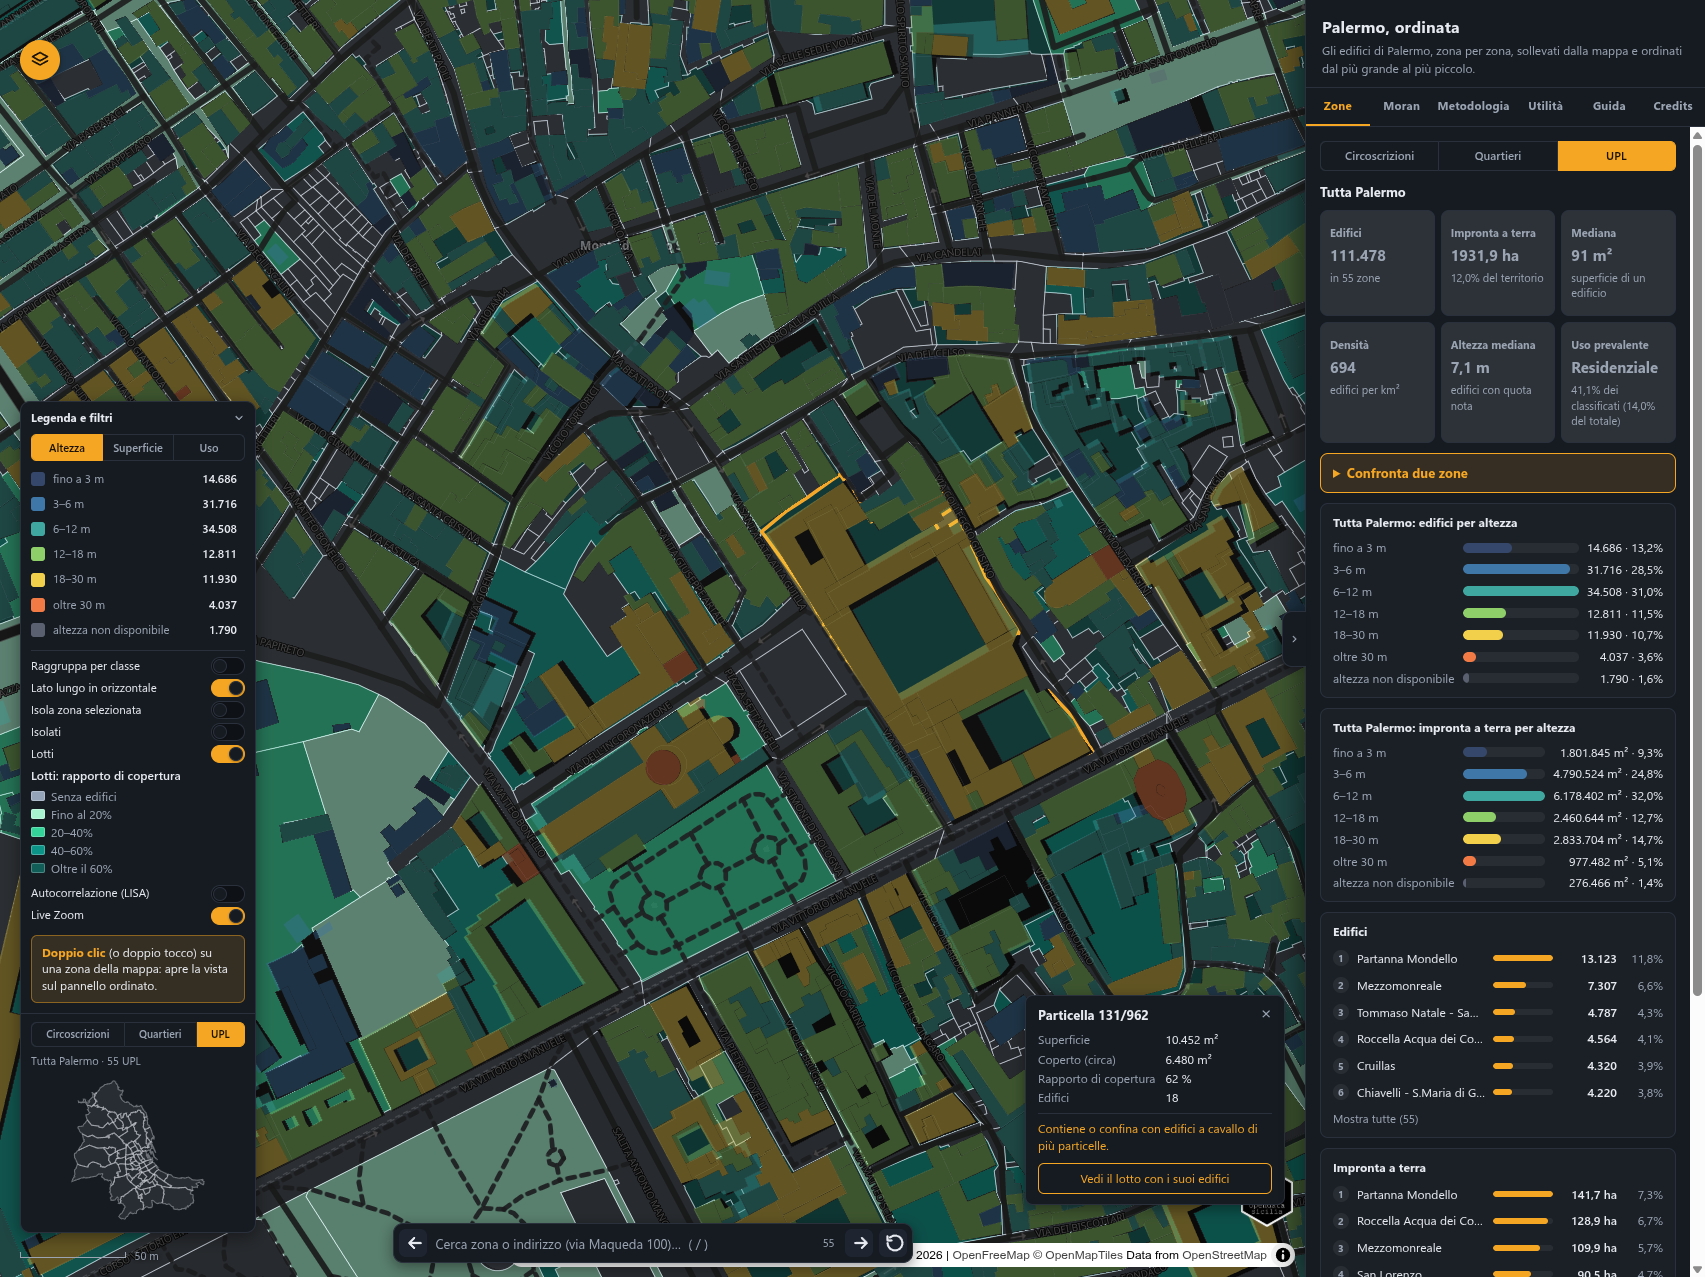
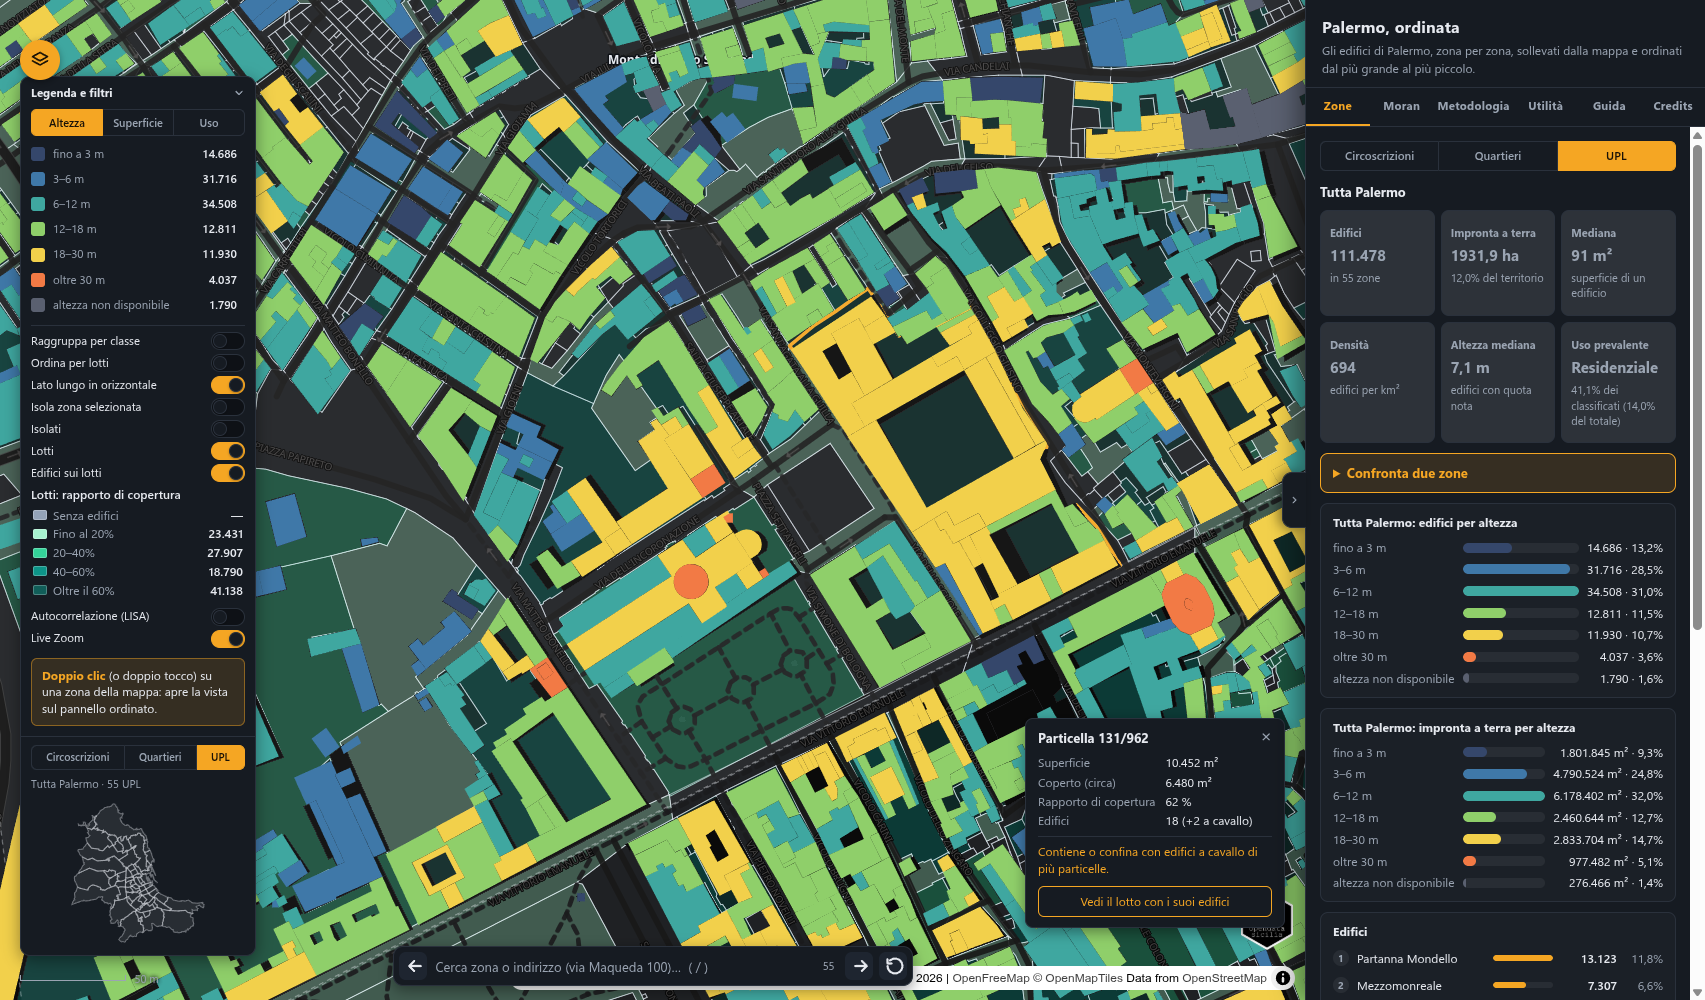
fix(lotti): il reset azzera anche i lotti; Guida e screenshot aggiornati
Reset: filtro dei lotti, «Edifici sui lotti», scheda e «Ordina per lotti» tornano allo stato iniziale.
Guida: sezione I lotti catastali riscritta (filtro, Ordina per lotti, reset, link), variabili dei lotti
nel Moran; screenshot nuovi (lotto-mappa, lotti-filtro, moran-lotti).

diff --git a/index.html b/index.html
@@ -347,7 +347,7 @@
         <li><b>Lato lungo in orizzontale</b>: ruota gli edifici per allinearli.</li>
         <li><b>Isola zona selezionata</b>: mostra solo la zona scelta.</li>
         <li><b>Isolati</b>: disegna sulla mappa il contorno degli isolati; clic su uno per la sua scheda, doppio clic per vederlo in ordine. Dettagli nella sezione «Gli isolati» qui sotto.</li>
-        <li><b>Lotti</b>: colora le particelle catastali per rapporto di copertura; clic per la scheda, doppio clic per vedere il lotto con i suoi edifici. Dettagli nella sezione «I lotti catastali» qui sotto.</li>
+        <li><b>Lotti</b>: disegna le particelle catastali colorate per rapporto di copertura; la loro legenda è un filtro (clic su una classe). <b>Ordina per lotti</b> dispone i lotti nella vista Ordinata. Dettagli nella sezione «I lotti catastali» qui sotto.</li>
         <li><b>Live Zoom</b>: dopo un filtro la vista si adatta agli edifici rimasti.</li>
       </ul>
       <h2>6. Gli isolati</h2>
@@ -385,7 +385,7 @@
       <p>Serve a capire se i valori <b>si raggruppano</b>: le UPL con edifici alti stanno vicine tra loro più di quanto farebbe il caso? Il tab <b>Moran</b> risponde con un numero per tutta la città (il <b>Moran's I</b>) e con un colore per ogni UPL (il <b>LISA</b>).</p>
       <figure><button type="button" class="gal" data-gal="img/guida/moran-mappa.png" data-cap="Cluster LISA sulla mappa: in rosso gli hotspot, in blu i coldspot" title="Ingrandisci: Cluster LISA sulla mappa: in rosso gli hotspot, in blu i coldspot"><img src="img/guida/moran-mappa.png" alt="La mappa di Palermo con le UPL colorate in base al cluster LISA" loading="lazy"></button><figcaption>Cluster LISA sulla mappa: in rosso gli hotspot, in blu i coldspot</figcaption></figure>
       <ul class="guida">
-        <li>Apri il tab <b>Moran</b>, scegli la variabile (<b>Altezza media</b>, <b>Copertura</b> o <b>Densità</b>) e premi «<b>Mostra sulla mappa</b>». Lo stesso si fa con l'interruttore «Autocorrelazione (LISA)» nella legenda. Gli edifici vengono sostituiti dai cluster; per tornare indietro premi «Nascondi dalla mappa».</li>
+        <li>Apri il tab <b>Moran</b>, scegli la variabile (<b>Altezza media</b>, <b>Copertura</b>, <b>Densità</b> e, dai lotti catastali, <b>Lotto mediano</b>, <b>Frammentazione</b>, <b>A cavallo</b>, <b>Non costruiti</b>) e premi «<b>Mostra sulla mappa</b>». Lo stesso si fa con l'interruttore «Autocorrelazione (LISA)» nella legenda. Gli edifici vengono sostituiti dai cluster; per tornare indietro premi «Nascondi dalla mappa».</li>
         <li><b>Rosso, hotspot (alto-alto):</b> UPL con valore alto circondata da UPL con valori alti. <b>Blu, coldspot (basso-basso):</b> il contrario.</li>
         <li><b>Arancio e azzurro, outlier:</b> UPL alta tra basse (arancio) o bassa tra alte (azzurro). Sono le eccezioni rispetto al contesto.</li>
         <li><b>Grigio:</b> nessun raggruppamento significativo (p locale sopra 0,05).</li>
@@ -398,27 +398,36 @@
       <figure><button type="button" class="gal" data-gal="img/guida/moran-cluster.png" data-cap="Elenco dei cluster: un clic su una UPL la inquadra sulla mappa" title="Ingrandisci: Elenco dei cluster: un clic su una UPL la inquadra sulla mappa"><img src="img/guida/moran-cluster.png" alt="L'elenco delle UPL per tipo di cluster" loading="lazy"></button><figcaption>Elenco dei cluster: un clic su una UPL la inquadra sulla mappa</figcaption></figure>
       <ul class="guida">
         <li>Sotto il diagramma le UPL sono elencate per tipo di cluster, con il valore: un clic sul nome inquadra la UPL sulla mappa.</li>
-        <li>Con il livello LISA acceso il passaggio del mouse mostra la scheda della UPL invece di quella dell'edificio; il link condiviso conserva la variabile scelta (<code>&amp;m=alt</code>, <code>cop</code> o <code>den</code>). Dettagli e limiti del metodo sono nella Metodologia, punto 8.</li>
+        <li>Con il livello LISA acceso il passaggio del mouse mostra la scheda della UPL invece di quella dell'edificio; il link condiviso conserva la variabile scelta (<code>&amp;m=alt</code>, <code>cop</code>, <code>den</code>, <code>lmed</code>, <code>frag</code>, <code>cavq</code> o <code>vuoq</code>). Dettagli e limiti del metodo sono nella Metodologia, punto 8.</li>
+      </ul>
+      <figure><button type="button" class="gal" data-gal="img/guida/moran-lotti.png" data-cap="Le variabili dei lotti nell'autocorrelazione: la frammentazione fondiaria ha il suo hotspot nel centro storico" title="Ingrandisci: Le variabili dei lotti nell'autocorrelazione: la frammentazione fondiaria ha il suo hotspot nel centro storico"><img src="img/guida/moran-lotti.png" alt="Il tab Moran con la variabile Frammentazione: hotspot rossi nel centro storico" loading="lazy"></button><figcaption>Le variabili dei lotti nell'autocorrelazione: la frammentazione fondiaria ha il suo hotspot nel centro storico</figcaption></figure>
+      <ul class="guida">
+        <li><b>Le quattro variabili dei lotti</b> distinguono il tessuto storico, a lotti piccoli e frammentati, dalle lottizzazioni: <b>Frammentazione</b> (particelle per ettaro) ha il suo hotspot nel centro storico, <b>Lotto mediano</b> (m²) lo ha dove i lotti sono più grandi, <b>A cavallo</b> è la quota di edifici che toccano più particelle, <b>Non costruiti</b> la quota di particelle senza edifici. Le particelle stradali sono escluse.</li>
       </ul>
       <h2>10. I lotti catastali</h2>
-      <figure><button type="button" class="gal" data-gal="img/guida/lotto-mappa.png" data-cap="Lotti accesi: particelle colorate per rapporto di copertura e scheda della particella scelta" title="Ingrandisci: Lotti accesi: particelle colorate per rapporto di copertura e scheda della particella scelta"><img src="img/guida/lotto-mappa.png" alt="La mappa con le particelle colorate per rapporto di copertura e la scheda di una particella" loading="lazy"></button><figcaption>Lotti accesi: particelle colorate per rapporto di copertura e scheda della particella scelta</figcaption></figure>
+      <figure><button type="button" class="gal" data-gal="img/guida/lotto-mappa.png" data-cap="Lotti accesi: particelle colorate per rapporto di copertura, edifici colorati come al solito e scheda della particella scelta" title="Ingrandisci: Lotti accesi: particelle colorate per rapporto di copertura, edifici colorati come al solito e scheda della particella scelta"><img src="img/guida/lotto-mappa.png" alt="La mappa con le particelle colorate per rapporto di copertura, gli edifici colorati per altezza e la scheda di una particella" loading="lazy"></button><figcaption>Lotti accesi: particelle colorate per rapporto di copertura, edifici colorati come al solito e scheda della particella scelta</figcaption></figure>
       <ul class="guida">
-        <li>Accendi <b>Lotti</b> nella legenda (solo vista Mappa; si spegne se accendi Isolati o LISA). Le particelle compaiono da zoom 12 (trasparenti) e gli edifici restano sopra, pieni, così si vede cosa sta dentro ogni lotto. L'interruttore <b>Edifici sui lotti</b> li spegne per vedere solo le particelle (<code>&amp;e=0</code> nel link).</li>
-        <li>Il colore dice <b>quanta parte del lotto è costruita</b>: grigio = nessun edificio, poi dal verde chiaro al verde scuro fino a oltre il 60%.</li>
-        <li><b>Passa il mouse</b> su un lotto per evidenziarlo; <b>clicca</b> per la scheda: superficie, coperto, rapporto di copertura, numero di edifici e avvisi (lotto libero, edifici a cavallo, particella stradale).</li>
-        <li><b>La legenda dei lotti è un filtro</b>, indipendente dal colore degli edifici: <b>clic su una classe</b> per vedere solo i lotti di quella classe e gli edifici che ci stanno dentro, che restano colorati per altezza, superficie o uso. Le statistiche e le classifiche del pannello si ricalcolano sui soli edifici rimasti. Secondo clic per rimettere tutto; <b>Maiusc+clic</b> accende o spegne una classe senza isolarla. Accanto a ogni classe c'è il numero di edifici; <b>Senza edifici</b> isola i lotti non costruiti (nessun edificio da contare, quindi il pannello resta vuoto). Il link condiviso conserva il filtro (<code>&amp;y=…</code>, le classi spente).</li>
+        <li>Accendi <b>Lotti</b> nella legenda (solo vista Mappa; si spegne se accendi Isolati o LISA). Le particelle compaiono da zoom 12, trasparenti, e <b>gli edifici restano sopra</b> con i loro colori: si vede cosa sta dentro ogni lotto. L'interruttore <b>Edifici sui lotti</b> li spegne per vedere solo le particelle (<code>&amp;e=0</code> nel link).</li>
+        <li>Il colore del lotto dice <b>quanta parte è costruita</b>: grigio = nessun edificio, poi dal verde chiaro al verde scuro fino a oltre il 60%.</li>
+        <li><b>Passa il mouse</b> su un lotto per evidenziarlo; <b>clicca</b> per la scheda: superficie, coperto, rapporto di copertura, numero di edifici (con «+n a cavallo» se ce ne sono) e avvisi (lotto libero, edifici a cavallo, particella stradale).</li>
+      </ul>
+      <figure><button type="button" class="gal" data-gal="img/guida/lotti-filtro.png" data-cap="La legenda dei lotti come filtro: solo i lotti 40–60% e gli edifici che ci stanno dentro, ancora colorati per altezza" title="Ingrandisci: La legenda dei lotti come filtro: solo i lotti 40–60% e gli edifici che ci stanno dentro, ancora colorati per altezza"><img src="img/guida/lotti-filtro.png" alt="La mappa con i soli lotti della classe 40–60% e i loro edifici colorati per altezza, con la legenda dei lotti e i conteggi" loading="lazy"></button><figcaption>La legenda dei lotti come filtro: solo i lotti 40–60% e gli edifici che ci stanno dentro, ancora colorati per altezza</figcaption></figure>
+      <ul class="guida">
+        <li><b>La legenda dei lotti è un filtro</b>, indipendente dal colore degli edifici. <b>Clic su una classe</b>: restano solo i lotti di quella classe e gli edifici che ci stanno dentro, ancora colorati per altezza, superficie o uso. Layer, edifici e pannello si aggiornano insieme: statistiche, classifiche e barre contano solo gli edifici rimasti. <b>Secondo clic</b> per rimettere tutto; <b>Maiusc+clic</b> accende o spegne una classe senza isolarla.</li>
+        <li>Accanto a ogni classe c'è il <b>numero di edifici</b>. <b>Senza edifici</b> isola i lotti non costruiti (nessun edificio da contare, quindi il pannello resta vuoto).</li>
+        <li>Il link condiviso conserva il filtro (<code>&amp;y=…</code>, le classi spente) e il livello acceso (<code>&amp;q=1</code>).</li>
+        <li>Il pulsante <b>Azzera</b> (la freccia circolare accanto alla ricerca) rimette tutto: filtro dei lotti, «Edifici sui lotti», scheda aperta e «Ordina per lotti».</li>
       </ul>
       <figure><button type="button" class="gal" data-gal="img/guida/lotto-ordinata.png" data-cap="Doppio clic su un lotto: il contorno della particella con i suoi edifici nelle posizioni reali" title="Ingrandisci: Doppio clic su un lotto: il contorno della particella con i suoi edifici nelle posizioni reali"><img src="img/guida/lotto-ordinata.png" alt="La vista Ordinata del singolo lotto, con il contorno della particella e i suoi edifici" loading="lazy"></button><figcaption>Doppio clic su un lotto: il contorno della particella con i suoi edifici nelle posizioni reali</figcaption></figure>
       <ul class="guida">
         <li><b>Doppio clic su un lotto</b> (o doppio tocco, o «Vedi il lotto con i suoi edifici» nella scheda): apre la vista Ordinata del solo lotto. Qui gli edifici <b>non sono in fila</b>: restano dove sono, dentro il contorno della particella, alla stessa scala.</li>
-        <li>Il pannello mostra le statistiche degli edifici del lotto; «<b>Torna alla mappa</b>», la X o il tasto <kbd>M</kbd> riportano sulla Mappa, centrata sul lotto.</li>
-        <li>Il <b>link condiviso</b> conserva il livello acceso (<code>&amp;q=1</code>) e il lotto aperto (<code>&amp;lot=…</code>). Fonte e approssimazioni sono nella Metodologia, punto 9.</li>
+        <li>Il pannello mostra le statistiche degli edifici del lotto; «<b>Torna alla mappa</b>», la X o il tasto <kbd>M</kbd> riportano sulla Mappa, centrata sul lotto. Il link conserva il lotto aperto (<code>&amp;lot=…</code>).</li>
       </ul>
       <figure><button type="button" class="gal" data-gal="img/guida/lotti-ordinati.png" data-cap="Ordina per lotti: i lotti di una zona in ordine di superficie, ognuno con il contorno della particella e i suoi edifici dentro" title="Ingrandisci: Ordina per lotti: i lotti di una zona in ordine di superficie, ognuno con il contorno della particella e i suoi edifici dentro"><img src="img/guida/lotti-ordinati.png" alt="La vista Ordinata con i lotti di una zona in fila, ognuno con il suo contorno e gli edifici dentro" loading="lazy"></button><figcaption>Ordina per lotti: i lotti di una zona in ordine di superficie, ognuno con il contorno della particella e i suoi edifici dentro</figcaption></figure>
       <ul class="guida">
         <li><b>Ordina per lotti</b> (interruttore nella legenda): la vista Ordinata mostra, zona per zona, <b>i lotti</b> dal più grande al più piccolo invece degli edifici. Ogni lotto ha il contorno della particella e i suoi edifici nelle posizioni reali, tutto <b>alla stessa scala</b>: si vede subito quanto è costruito e quanto è libero. Gli edifici senza particella compaiono come elementi singoli, senza contorno.</li>
-        <li>I filtri e i colori della legenda valgono anche qui: un lotto resta disegnato solo se ha almeno un edificio visibile. «Raggruppa per classe» non si applica a questa vista.</li>
-        <li>Il link conserva la scelta (<code>&amp;ol=1</code>).</li>
+        <li>I filtri e i colori della legenda valgono anche qui: un lotto resta disegnato solo se ha almeno un edificio visibile. «Raggruppa per classe» non si applica a questa vista. Il link conserva la scelta (<code>&amp;ol=1</code>).</li>
+        <li>Fonte, soglie e approssimazioni sono nella Metodologia, punto 9. I lotti entrano anche nell'autocorrelazione spaziale (punto 9 di questa guida).</li>
       </ul>
       <h2>11. Il menu delle viste</h2>
       <figure><button type="button" class="gal" data-gal="img/guida/dial.png" data-cap="Il menu rotondo arancione, in alto a sinistra" title="Ingrandisci: Il menu rotondo arancione, in alto a sinistra"><img src="img/guida/dial.png" alt="Il menu delle viste aperto" loading="lazy"></button><figcaption>Il menu rotondo arancione, in alto a sinistra</figcaption></figure>

diff --git a/js/app.js b/js/app.js
@@ -899,6 +899,11 @@ function collegaInterfaccia() {
 function resetTutto() {
   if (!S.citta || S.anim) return;
   S.spente.clear(); S.sel = null;
+  if (S.lotti) {                                                                // anche i lotti tornano allo stato iniziale: filtro per classe, edifici sui lotti, scheda e selezione
+    S.lottiOff.clear(); S.edifici = true; $('lotti-edifici').checked = true; S.lottoHover = null; LM.evidenzia(null);
+    chiudiSchedaLotto(); ricalcolaStatLotti(S.citta); sincronizzaLotti();
+  }
+  if (S.ordLotti) impostaOrdLotti(false);                                       // la vista Ordinata torna agli edifici
   nascondiTip(); R.ricolora(); scriviHash(); Pannello.aggiorna(S, azioni); Cerca.aggiorna(); marcaMini();
   vaiHome();
 }
